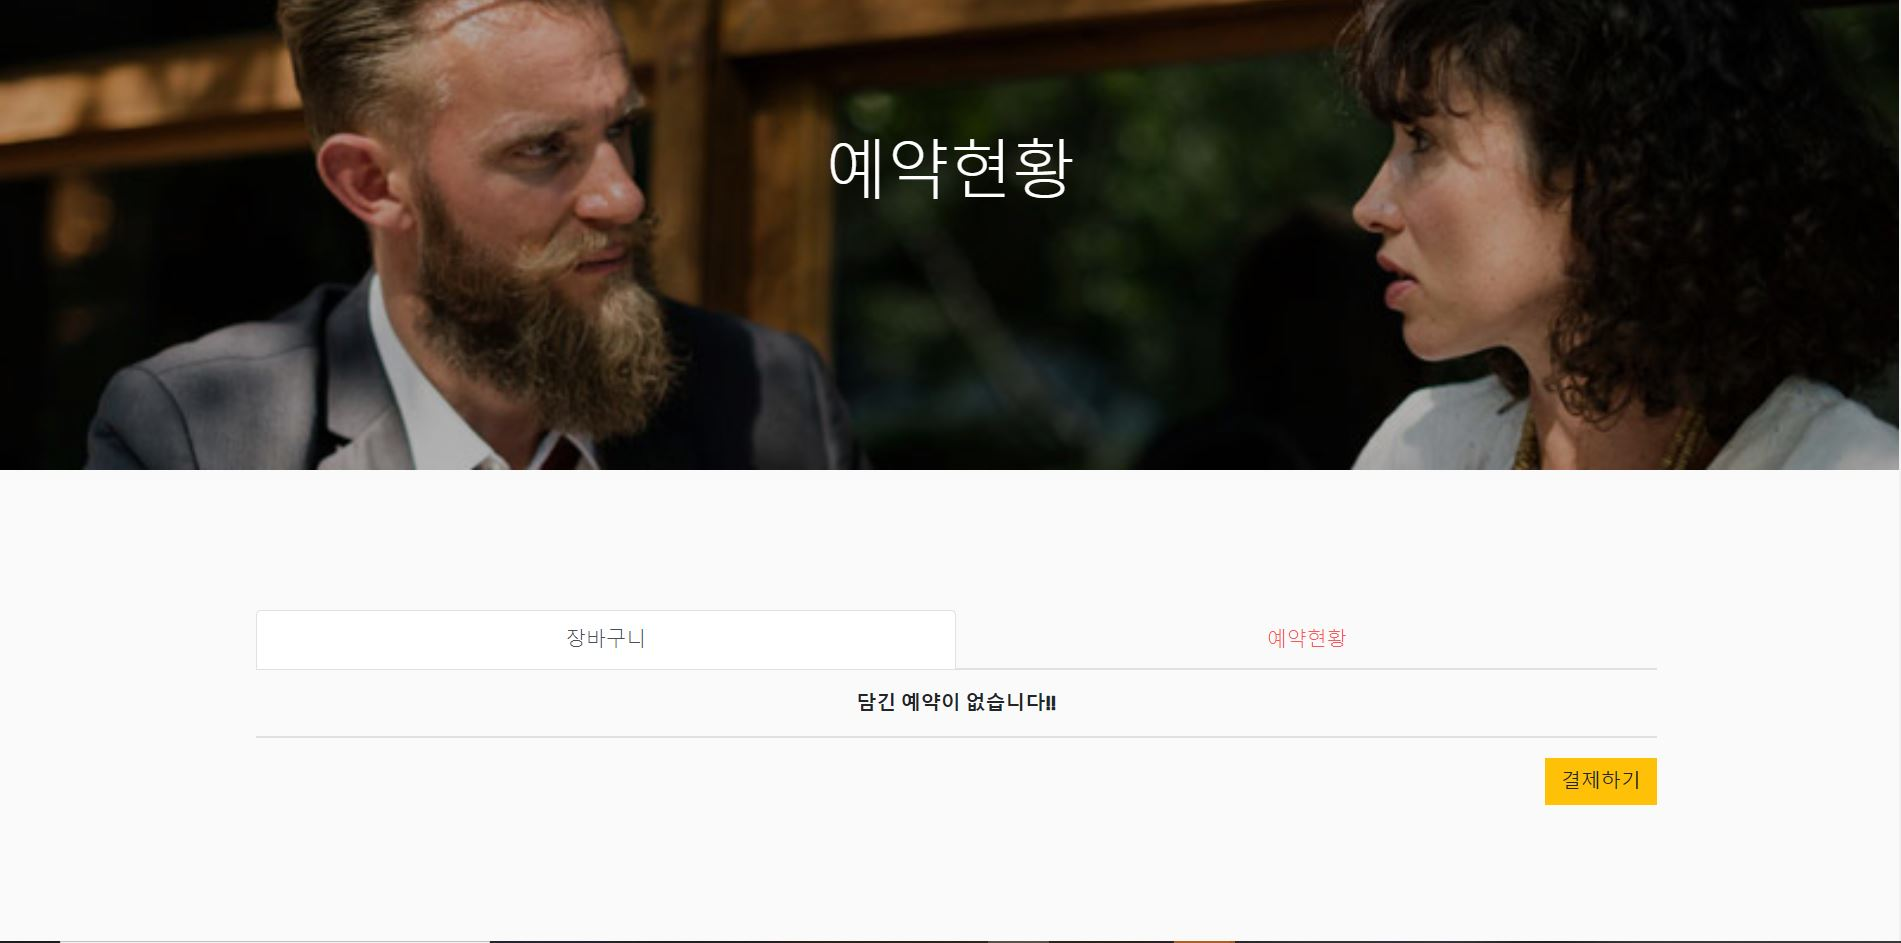
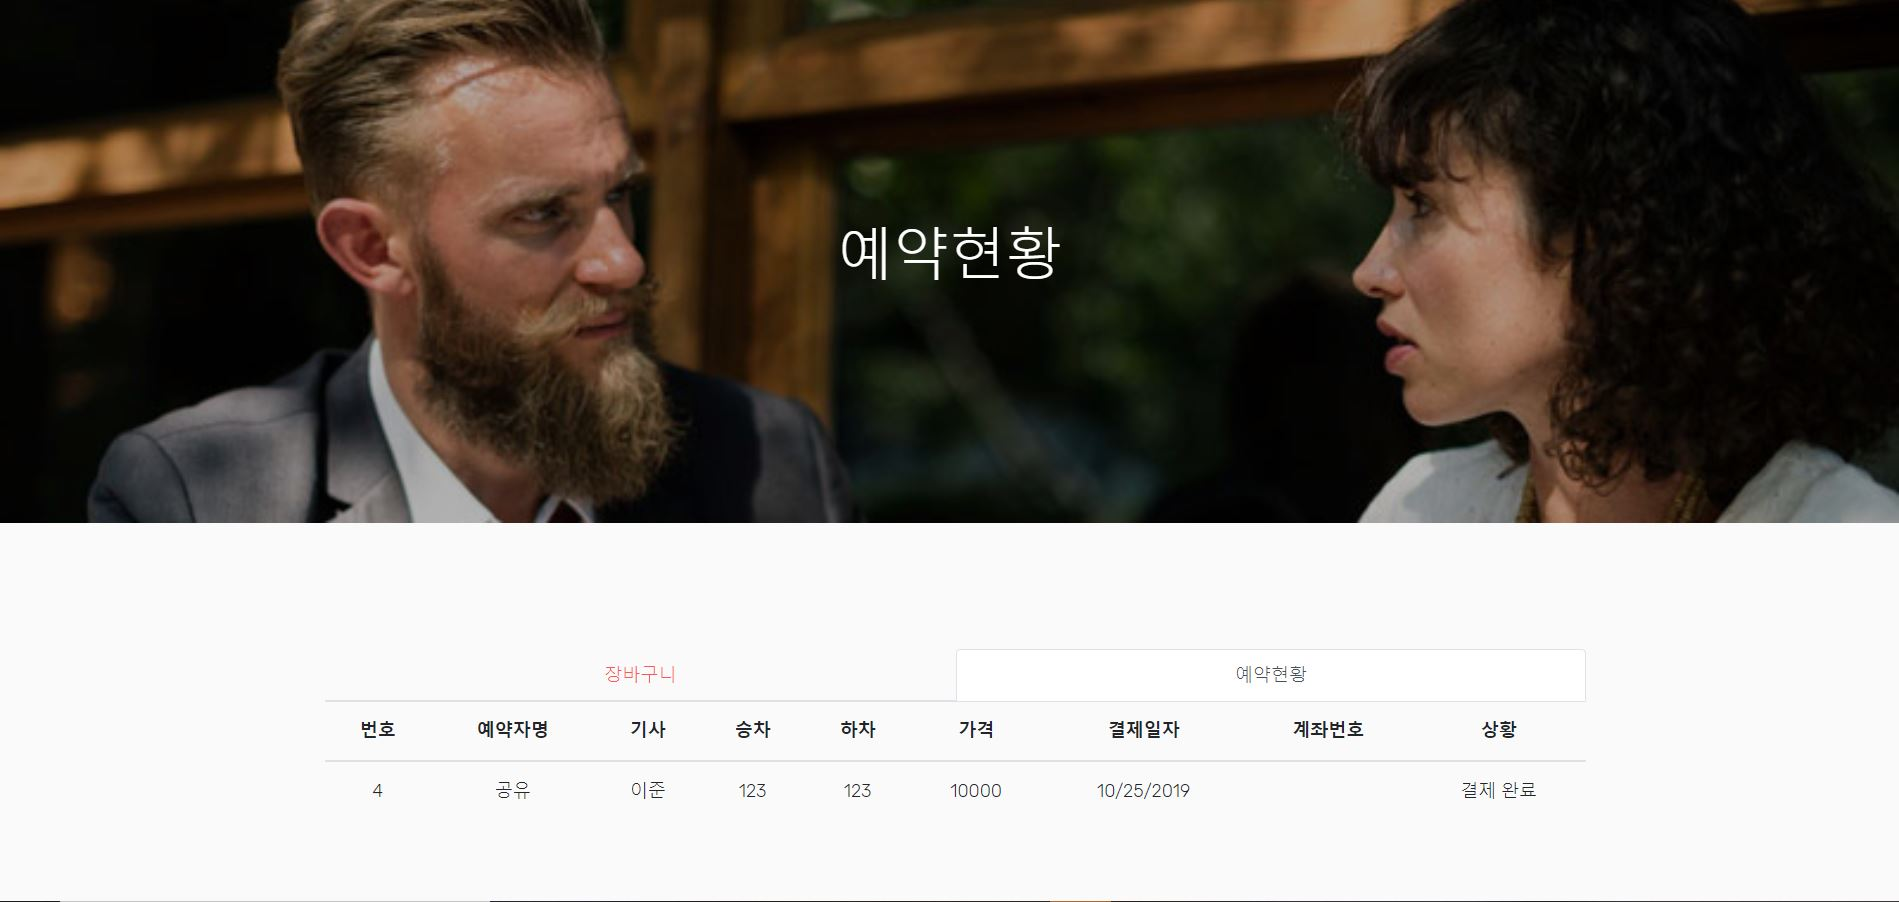
서비스 이용방법 모바일 사진 수정 소스

diff --git a/WebContent/DamoaTaxi/css/Service_Guide.css b/WebContent/DamoaTaxi/css/Service_Guide.css
@@ -139,7 +139,7 @@ h3 {
 }
 @media all and (min-width: 40em) {
   .lw-tab-panel.theme-blue {
-    background-image: url("https://picsum.photos/899/599?image=839");
+    background-image: url("../images/signup.JPG");
   }
 }
 
@@ -154,7 +154,7 @@ h3 {
 }
 @media all and (min-width: 40em) {
   .lw-tab-panel.theme-purple {
-    background-image: url("https://picsum.photos/899/599?image=867");
+    background-image: url("../images/Reservation.JPG");
   }
 }
 
@@ -169,7 +169,7 @@ h3 {
 }
 @media all and (min-width: 40em) {
   .lw-tab-panel.theme-green {
-    background-image: url("https://picsum.photos/899/599?image=1018");
+    background-image: url("../images/Reservation%20Status.JPG");
   }
 }
 
@@ -184,7 +184,7 @@ h3 {
 }
 @media all and (min-width: 40em) {
   .lw-tab-panel.theme-yellow {
-    background-image: url("https://picsum.photos/899/599?image=857");
+    background-image: url("../images/payment.JPG");
   }
 }
 
